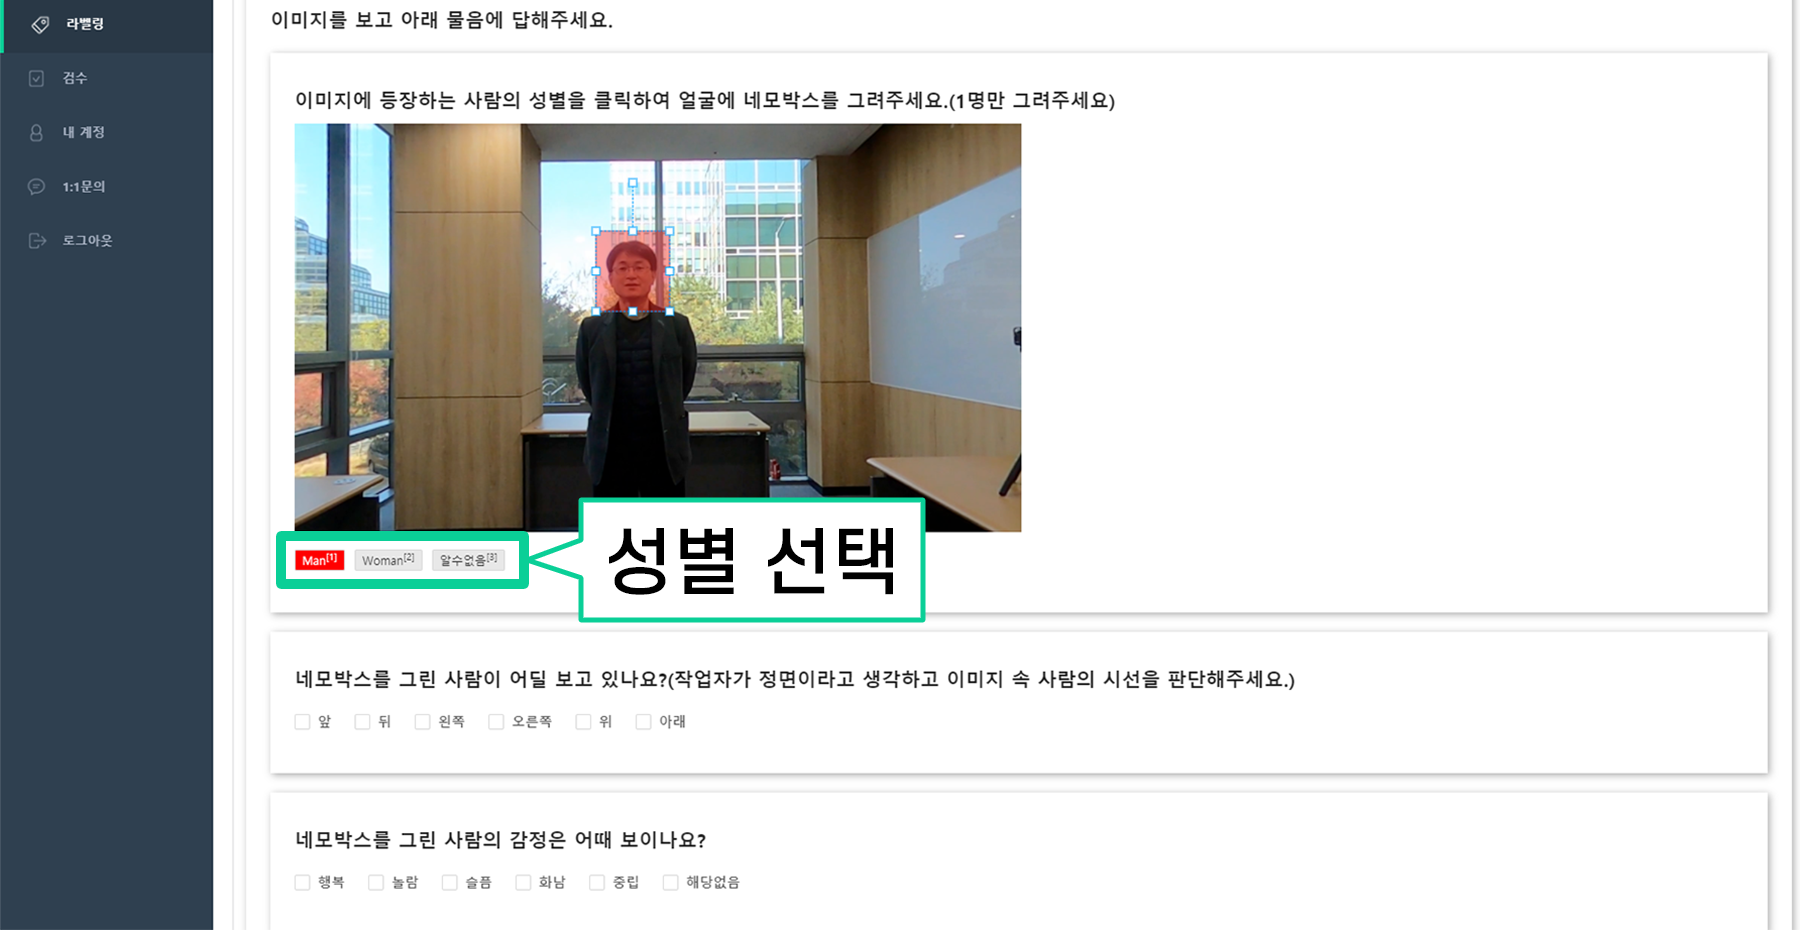
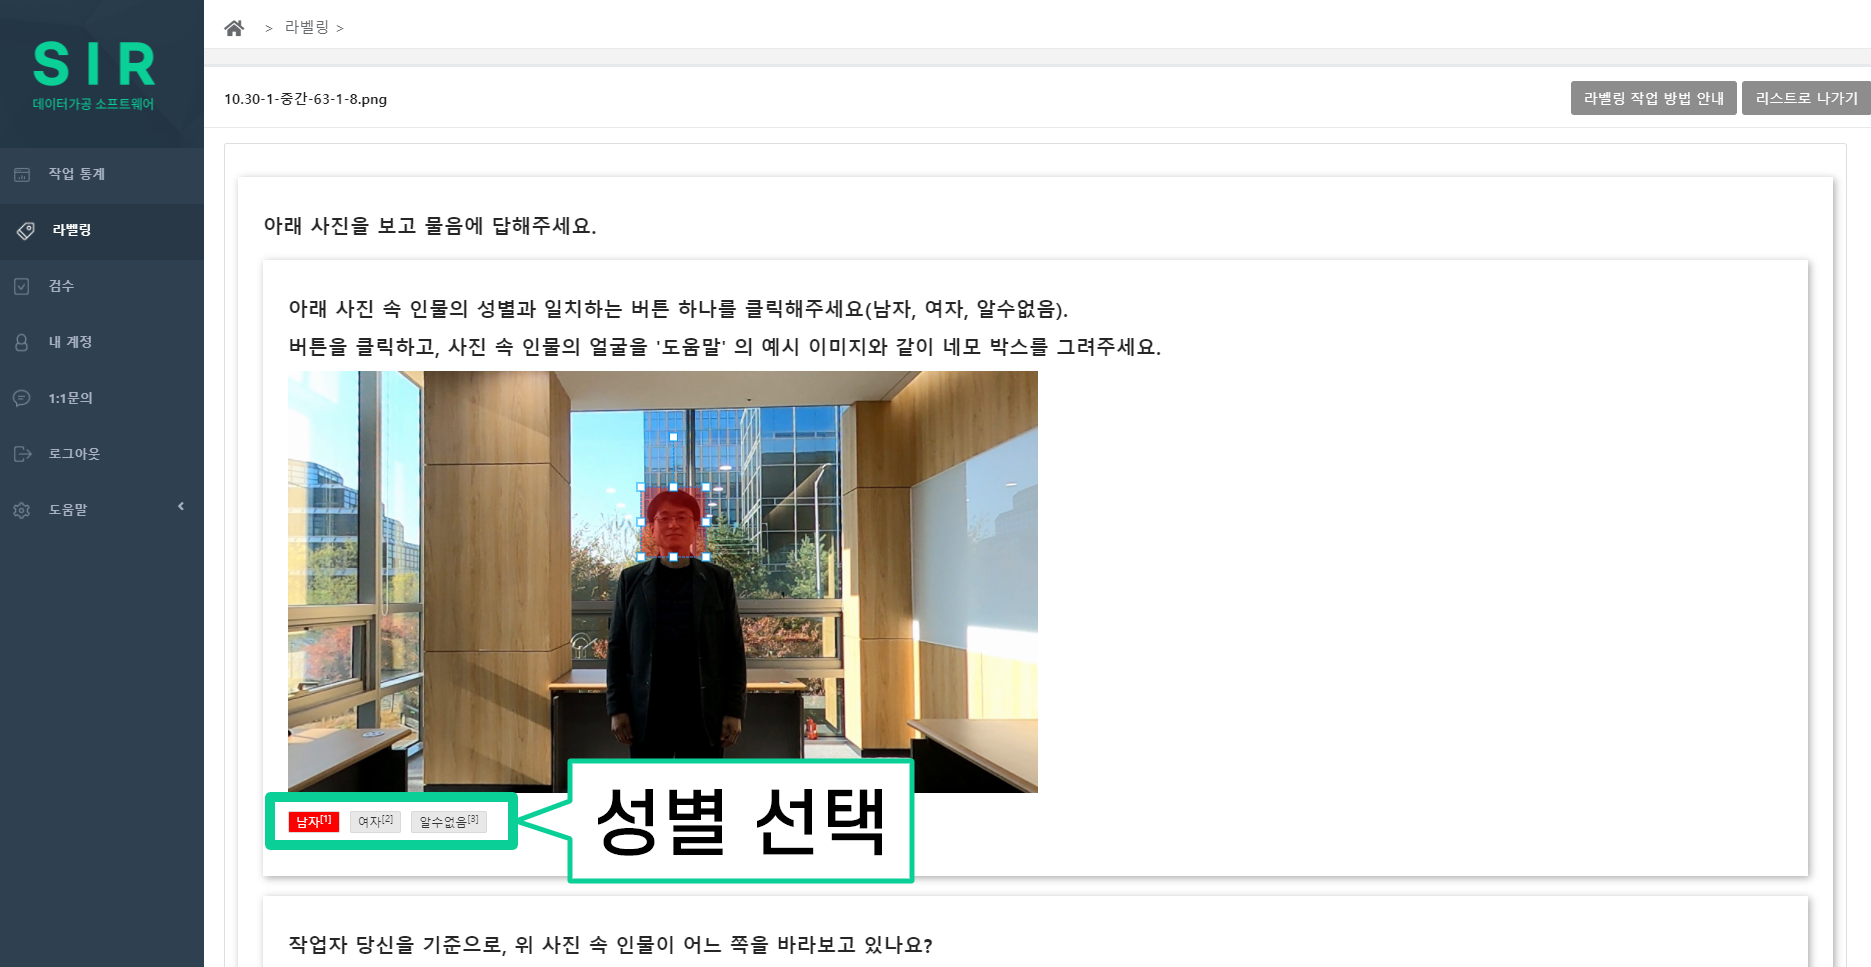
라벨링 작업완료

diff --git a/labeling.html b/labeling.html
@@ -33,7 +33,7 @@
 						<img class="image" src="img/help/labeling/1.png" alt="" />
 
 						<p>
-							2. 파일명(파란글씨)을 클릭합니다.
+							2. 작업목록에서 하나를 선택합니다. (파란글씨 클릭)
 						</p>
 
 						<img class="image" src="img/help/labeling/2.png" alt="" />
@@ -45,11 +45,11 @@
 						<img class="image" src="img/help/labeling/3.png" alt="" />
 
 						<p class="ref-main">
-							4. 아래 주어진 사진 속 인물이 남자면 ‘Man’ 여자면 ‘Woman’을 선택합니다.
+							4. 아래 주어진 사진 속 인물의 성별이 남자면 ‘남자’ 여자면 ‘여자’, 성별 판별이 불가능한 경우 (예를 들어, 뒤돌아 있는 경우)  ‘알수없음’ 을 선택합니다.
 						</p>
 
 						<p class="ref">
-							(* 예시로 주어진 아래 사진 속 인물은 남자이므로 ‘Man’을 클릭해줍니다.)
+							(* 예시로 주어진 아래 사진 속 인물은 남자이므로 ‘남자’를 클릭해줍니다.)
 						</p>
 
 						<img class="image" src="img/help/labeling/4-1.png" alt="" />
@@ -65,7 +65,7 @@
 						<img class="image" src="img/help/labeling/4-2.png" alt="" />
 
 						<p class="ref-main">
-							6. 작업자 본인을 기준으로, 아래 사진 속의 인물은 어느 쪽을 바라보고 있나요?
+							6. (라벨링/검수) 작업을 하시는 당신을 기준으로, 아래 사진 속의 인물은 어느 쪽을 바라보고 있나요?
 						</p>
 
 						<p class="ref">
@@ -175,28 +175,40 @@
 						<img class="image" src="img/help/labeling/10.png" alt="" />
 
 						<p>
-							11. 위 동영상 속 인물이 작업자 본인과 소통을 시도하고 있다고 느끼면 ‘네’, 소통하고 있지 않다고 느끼면 ‘아니오’ 를 선택합니다.
+							11. 위 영상 속 인물이 작업자 당신에게 말을 걸거나 인사를 하는 등 함께 이야기하는 것처럼 느껴진다면 ‘네’, 아니면 ‘아니오’를 선택합니다.
 						</p>
 
 						<img class="image" src="img/help/labeling/11.png" alt="" />
 
 						<p>
-							12. 작업이 모두 완료되었다면 파란색 ‘Submit’ 버튼을 클릭하여 제출합니다.
+							12. 작업이 모두 완료되었다면 파란색 ‘제출’ 버튼을 클릭하여 제출합니다.
 						</p>
 
 						<img class="image" src="img/help/labeling/12.png" alt="" />
 
 						<p>
-							13. 'Submit' 버튼을 클릭하면 아래 사진과 같이 '리스트로 가기' 또는 '다음 작업' 버튼을 클릭할 수 있습니다. 작업을 이어서 하시려면 '다음 작업', 작업 목록을 확인하시려면 '리스트로 가기' 를 선택합니다.
+							13. '제출' 버튼을 클릭하면 아래 사진과 같이 '리스트로 가기' 또는 '다음 작업' 버튼을 클릭할 수 있습니다. 작업을 이어서 하시려면 '다음 작업', 작업 목록을 확인하시려면 '리스트로 가기' 를 선택합니다.
 						</p>
 
 						<img class="image" src="img/help/labeling/13.png" alt="" />
 
 						<p>
-							13-1. '다음 작업' 을 선택할 경우, 아래 사진과 같은 화면이 뜨고 '확인' 을 클릭하면 다음 작업으로 넘어가게 됩니다.
+							14-1. '리스트로 가기' 를 선택할 경우, 아래 사진과 같은 화면이 뜨고 '확인' 을 클릭하면 작업 목록으로 넘어가게 됩니다.
 						</p>
 
-						<img class="image" src="img/help/labeling/13-1.png" alt="" />
+						<img class="image" src="img/help/labeling/14-1.png" alt="" />
+
+						<p>
+							14-2-1. '다음 작업' 을 선택할 경우, 이후 작업이 남아있으면 다음 작업으로 넘어가고 다음과 같은 창이 뜨게 됩니다.
+						</p>
+
+						<img class="image" src="img/help/labeling/14-2-1.png" alt="" />
+
+						<p>
+							14-2-2. '다음 작업' 을 선택할 경우, 이후 작업이 남아있지 않으면 아래 사진과 같은 화면이 뜨는데 '확인' 을 클릭하고 다시 ‘리스트로 가기’를 통해 작업목록으로 나갑니다.
+						</p>
+
+						<img class="image" src="img/help/labeling/14-2-2.png" alt="" />
 
 					</header>
 
